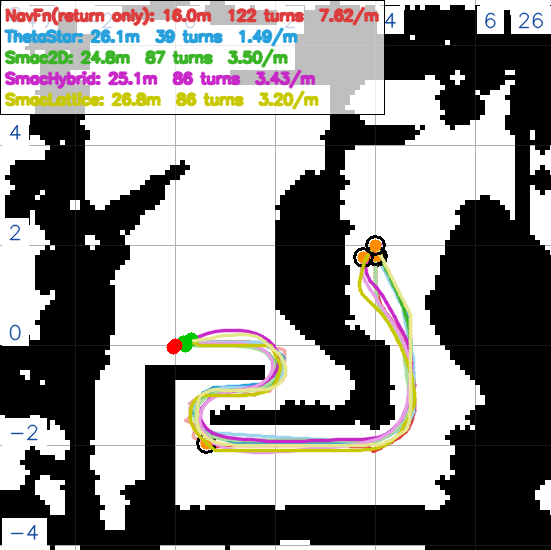
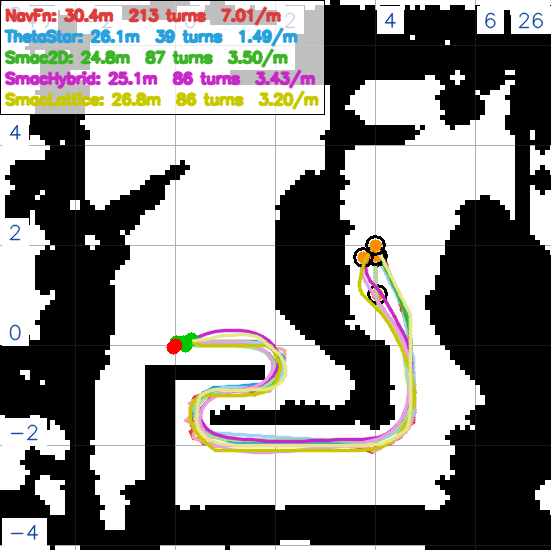
fix: NavFn 改回可跑通的配置（use_astar:false），往返数据补全
用户指出 NavFn 在战队图上是能跑通的 —— 确认属实，定位到真因：
- NavFn 的 use_astar:true 在 (0,0)->(4,2) 方向会卡死
  (Failed to create a plan from potential when a legal potential was found)
- 排除：地图/起终点/朝向（改 0 度一样）都不是原因；换 Dijkstra 立刻正常

参数按上游原版对齐：tolerance 0.5 / use_astar false / allow_unknown true /
use_final_approach_orientation false

往返新数据（五个都完整）：
NavFn 30.44m/213转弯/7.01 turns·m⁻¹（比最短长 22%）；Smac2D 24.94m 最短；
Hybrid 25.07；ThetaStar 26.21；Lattice 26.85

diff --git a/导航提交作业.md b/导航提交作业.md
@@ -74,20 +74,23 @@
 |---|---|---|---|---|---|---|---|---|
 | 规划器 | 往返全长 | 转弯(>5°) | 转弯/m | 去程 / 回程 | 备注 |
 |---|---|---|---|---|---|
-| **NavFn** | — | **122** | **7.62** | **去程规划失败** | ❌ **完不成往返** |
-| ThetaStar | 26.11 m | 39 | 1.49 | 13.09 / 13.03 | — |
-| **Smac2D** | **24.84 m** | 87 | 3.50 | 12.44 / 12.39 | 最短 |
+| **NavFn** | **30.44 m** | **213** | **7.01** | 14.29 / 16.06 | ❌ 最长、最碎 |
+| ThetaStar | 26.21 m | 39 | 1.49 | 13.09 / 13.03 | 转弯最少 |
+| **Smac2D** | **24.94 m** | 87 | 3.50 | 12.44 / 12.39 | **最短** |
 | SmacHybrid | 25.07 m | 86 | 3.43 | 12.60 / 12.39 | — |
 | SmacLattice | 26.85 m | 79 | 2.94 | 13.57 / 13.27 | — |
 
-**这一条最狠：NavFn 根本完不成往返。** 去程 `(0,0)` → `(4,2)` 直接规划失败
-（`Failed to create a plan from potential when a legal potential was found`，error_code 208），
-其余四个都正常；所以表里 NavFn 只有回程数据（16.01 m），往返全长无法给出。
+**NavFn 往返比最短的 Smac2D 长 22%（30.44 vs 24.94 m）**，转弯密度是它的 2 倍
+（**7.01 vs 3.50 turns·m⁻¹**）、**213 次转弯 / 72 次急转**，最大曲率
+**40 /m（等效转弯半径 2.5 cm）**。图上那团来回横跳的就是它。
 
-**即便只看回程，NavFn 也最差**：同样 4.47 m 的直线距离，它走了 **16.01 m**
-（Smac2D 只要 12.39 m，**长了 29%**），**122 次转弯 / 7.62 turns·m⁻¹**、**49 次急转**、
-最大曲率 **40 /m（等效转弯半径 2.5 cm）**。图上那条红色回程就是反复横跳的锯齿。
-
+> ⚠ **踩过的坑：NavFn 的 `use_astar: true` 会在这条路上卡死。**
+> 一开始用 NavFn 默认的 `use_astar: true`，**去程 `(0,0)` → `(4,2)` 直接规划失败**
+> （`Failed to create a plan from potential when a legal potential was found`，error_code 208），
+> 而反向一直正常。逐项排除后确认：**不是地图、不是起终点、不是朝向（改成 0° 也一样），
+> 就是 A* 模式的提路径步会卡死** —— 换 `use_astar: false`（Dijkstra）立刻正常。
+> 这可能就是早期实车「有时能规划、有时不能」的一个来源。
+>
 > ⚠ 往返轨迹在终点处有一次 **U 型掉头**，所以各家的「最大转角」都接近 180°，
 > 这个值不反映路径质量，看**全长 / 转弯数 / 曲率**才有意义。
 

diff --git a/assets/README.md b/assets/README.md
@@ -40,11 +40,16 @@
 | 文件 | 内容 | 关键数字（往返） |
 |---|---|---|
 | `path_compare_all.png` | **五台叠在同一张图** | — |
-| `path_navfn.png` | NavFn 单图 | ❌ **去程规划失败**；仅回程 16.01 m / 122 转弯 / 7.62 turns·m⁻¹ |
-| `path_thetastar.png` | ThetaStar 单图 | 26.11 m / 39 转弯 |
-| `path_smac2d.png` | Smac2D 单图 | **24.84 m（最短）** / 87 转弯 |
+| `path_navfn.png` | NavFn 单图 | **30.44 m / 213 转弯 / 7.01 turns·m⁻¹**（最长最碎） |
+| `path_thetastar.png` | ThetaStar 单图 | 26.21 m / 39 转弯（转弯最少） |
+| `path_smac2d.png` | Smac2D 单图 | **24.94 m（最短）** / 87 转弯 |
 | `path_hybrid.png` | SmacHybrid 单图 | 25.07 m / 86 转弯 |
 | `path_lattice.png` | **SmacLattice 单图（最终选中）** | 26.85 m / 79 转弯 |
+
+> ⚠ **NavFn 参数坑**：用 `use_astar: true` 时**去程 `(0,0)` → `(4,2)` 会规划失败**，
+> 必须用 `use_astar: false`（Dijkstra）。本图集的 NavFn 用的是 Dijkstra。
+> 上报的 NavFn 参数为：`tolerance: 0.5` / `use_astar: false` /
+> `allow_unknown: true` / `use_final_approach_orientation: false`（后三项与上游原版一致）。
 
 ### 🗺 标点用底图
 
